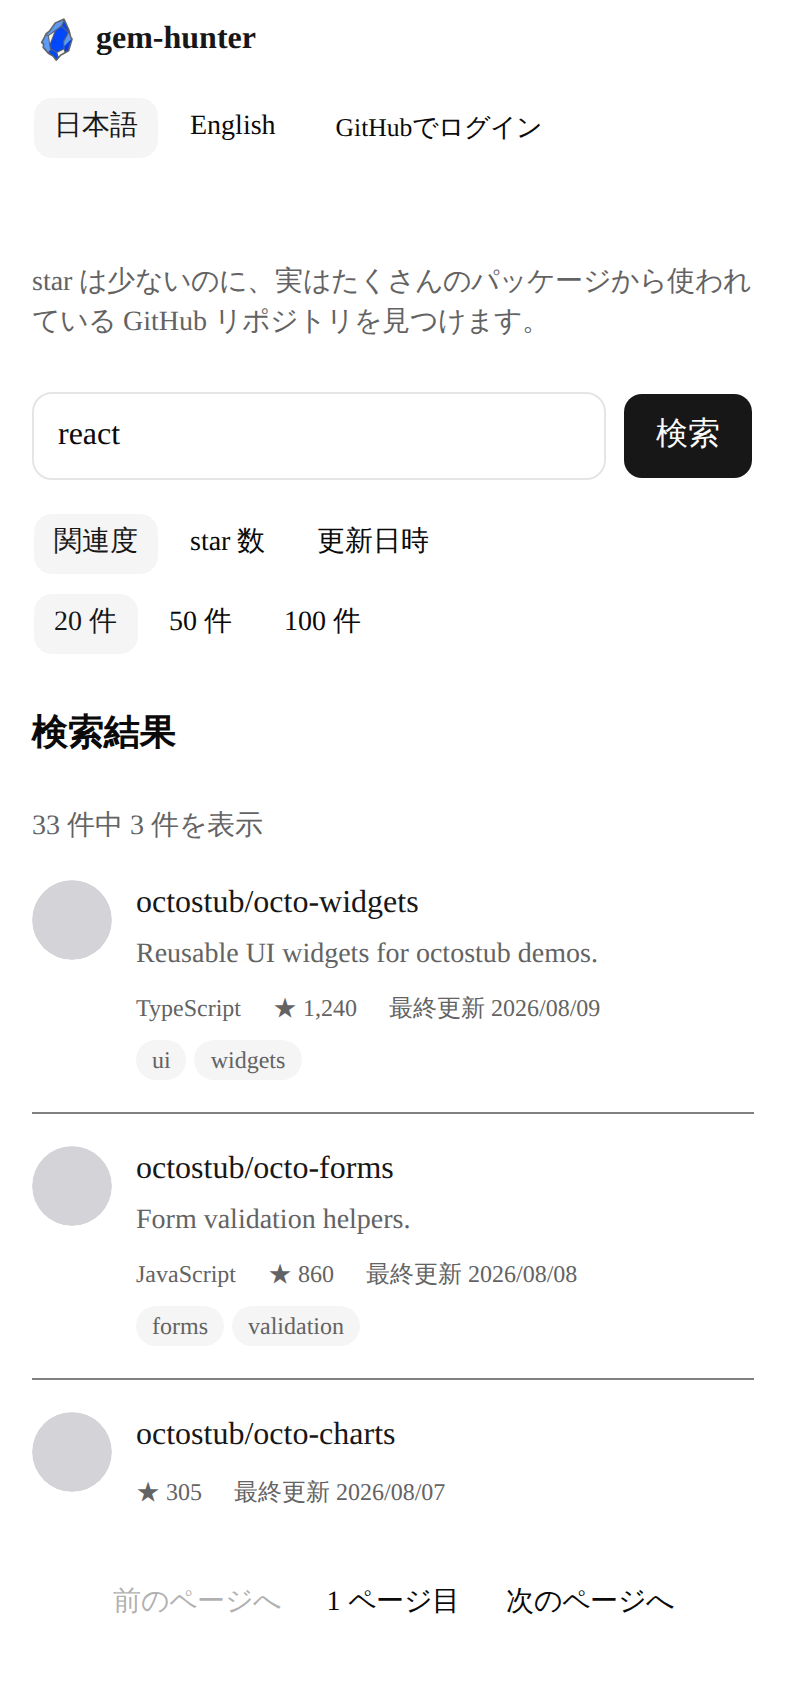
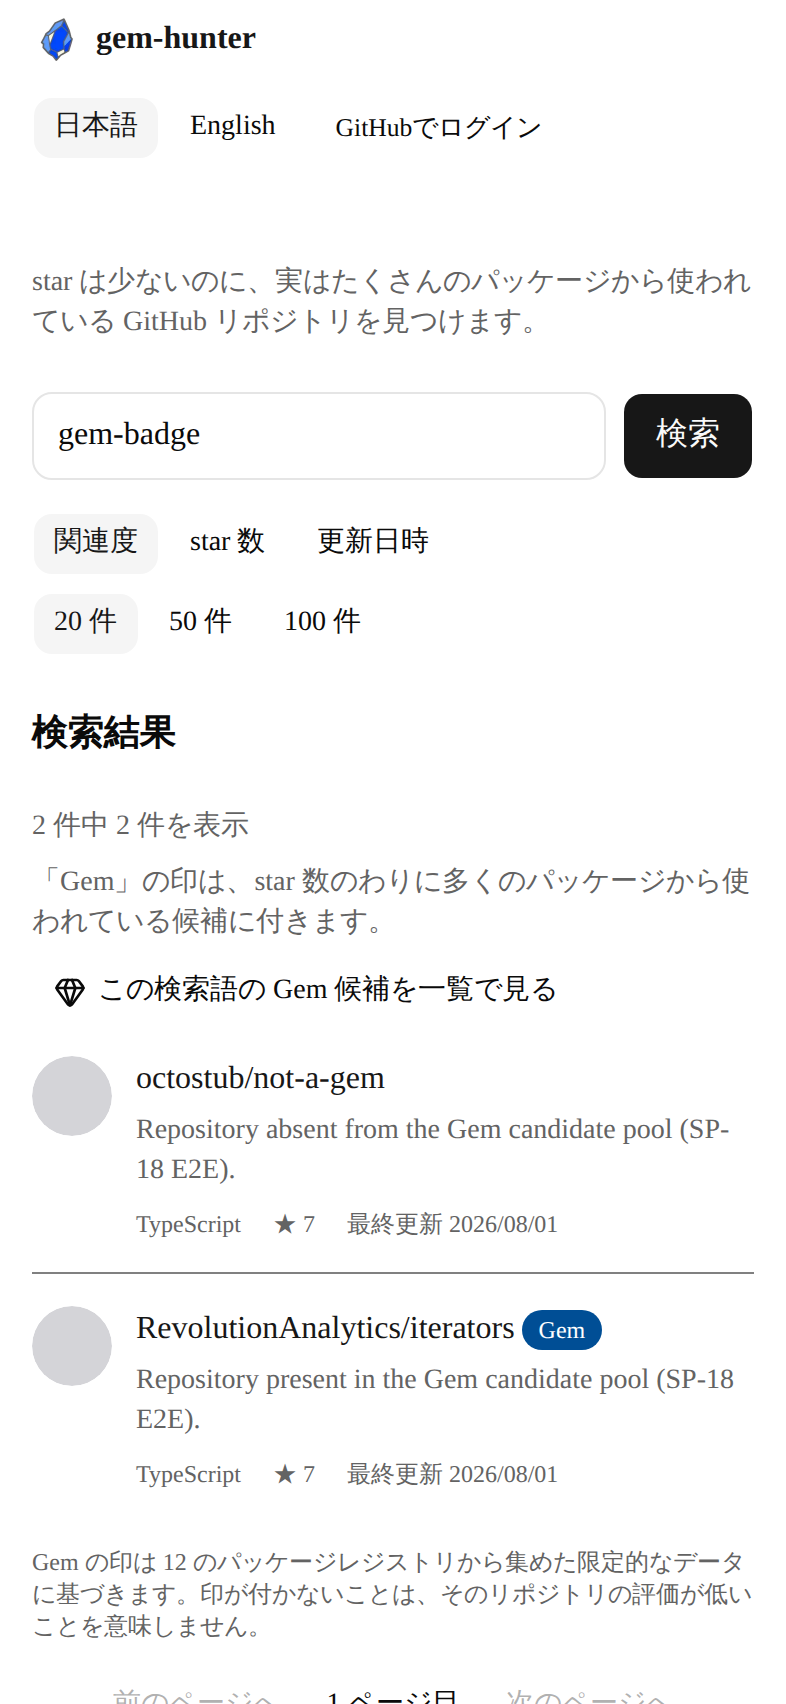
docs: 実 UI キャプチャを 3 枚に更新する（撮り直し 2 + Gem 一覧を新規・#517）
shot-01 は Gem バッジ・一覧導線・印の説明が写る画へ、shot-02 は 12 レジストリ化後の候補プールで撮り直した。shot-03（Gem 一覧）を新規に追加した。撮影に使った URL と、その URL でないと画が成立しない理由を slides_plan.json の note に残した。

回避: next start でも OpenNext の platform proxy が .open-next/assets を見るため /data/gem-index/*.json が 404 になり Gem バッジ・一覧が出ない（#454 系）。撮影設定側で symlink を張って回避し、撤去条件をコメントに明記した。

diff --git a/content/slides/project-explanation-20260822/scripts/capture.spec.ts b/content/slides/project-explanation-20260822/scripts/capture.spec.ts
@@ -92,10 +92,19 @@ test('shot-02: 今日の Gem ダイジェスト', async ({ page }, testInfo) => 
   // `?date=` は `getDailyDigest` の並び替えシード。固定日付で再現性を担保する（ADR 0014 §2.2）。
   await page.goto('/ja?date=20260820')
   await page.getByRole('heading', { name: '今日の Gem', level: 2 }).waitFor()
+  // 出典・鮮度（`{generatedAt}` を含む帰属表示）はダイジェストの末尾にあり、ファーストビューには
+  // 入らない。描画を待ってから撮る（下の PC 側はページ全体を写す）。
+  await page.getByText('このデータについて:').waitFor()
   await replaceStubAvatars(page)
-  // スマホ・PC とも **ファーストビューのまま** 撮る。共通ヘッダーとヒーロー画像
-  // （`/images/hero-idle.webp`）は最初の画面にしか出ないため、スクロールすると資料から消える。
-  // ヒーローが 16:9 になって縦幅が詰まった（#362）ので、スクロールしなくてもダイジェストが数件入る。
   await page.waitForTimeout(300)
-  await page.screenshot({ path: `${OUT}/shot-02-${testInfo.project.name}.png` })
+  // 🔴 端末で撮り方を変える（この 1 枚だけ）。
+  //  - スマホ（主役）: **ファーストビューのまま**。共通ヘッダーとヒーロー画像
+  //    （`/images/hero-idle.webp`）はここにしか出ないうえ、縦長のページ全体を撮ると
+  //    合成時（高さ基準で縮小）に細い短冊になって主役の文字が読めなくなる。
+  //  - PC（添え）: **ページ全体**。5 件すべてと出典・鮮度が 1 枚に収まるのはこちら側で、
+  //    横幅がある分ページが短く、縮小しても破綻しない。
+  await page.screenshot({
+    path: `${OUT}/shot-02-${testInfo.project.name}.png`,
+    fullPage: testInfo.project.name === 'desktop',
+  })
 })

diff --git a/content/slides/project-explanation-20260822/scripts/screenshots.config.ts b/content/slides/project-explanation-20260822/scripts/screenshots.config.ts
@@ -62,7 +62,15 @@ export default defineConfig({
           timeout: 30_000,
         },
         {
-          command: 'npm run build && npm start -- --port 3100',
+          // 🔴 `.open-next/assets` を先に用意する（**撮影のための細工ではなく、既知の不具合の回避**）。
+          // `next start` でも `@opennextjs/cloudflare` の platform proxy が `wrangler.jsonc` の
+          // `assets.directory`（`.open-next/assets`）を見る ASSETS binding を作るため、OpenNext ビルドを
+          // 挟まないと Gem 候補プール（`/data/gem-index/*`）が **HTTP 404** になり、Gem バッジも
+          // Gem 一覧も出ない（`main` の E2E が赤い原因と同一。Issue #454 / #455 / #457）。
+          // 配信元は `public/` そのものなので、そこへ向けたシンボリックリンクを張れば実データで撮れる。
+          // ⚠ **#454 / #455 / #457 が解決したらこの前段を外す**（既に実体があるときは何もしない）。
+          command:
+            '[ -e .open-next/assets ] || (mkdir -p .open-next && ln -s ../public .open-next/assets); npm run build && npm start -- --port 3100',
           cwd: repoRoot,
           env: { ...buildDummyGitHubEnv({ stubPort, appUrl: baseURL }), PORT: '3100' },
           url: baseURL,

diff --git a/content/slides/project-explanation-20260822/scripts/compose_screenshots.py b/content/slides/project-explanation-20260822/scripts/compose_screenshots.py
@@ -4,6 +4,9 @@
 飼い主の指示（2026-08-22）により **スマホ表示を主役、PC 表示を添え** として並べる。
 素材は `capture.spec.ts` が `images/raw/` に撮った端末別の PNG。
 
+`shot-03`（Gem 一覧）だけは素材が `fullPage` で、他の 2 枚（ファーストビュー）より縦に長い。
+高さを基準に縮めるレイアウトなので、長い素材はそのぶん横幅が細くなるだけで破綻はしない。
+
 レイアウトは「奥に PC の画面、手前に大きくスマホの画面」。スマホを前面かつ縦いっぱいに
 置くことで視線が先にスマホへ行き、PC は文脈（同じ画面が広い幅でも成立すること）を示す添えになる。
 背景・枠線の色は既存インフォグラフィックのパレット（生成りの紙地 + ネイビー）に合わせる。
@@ -83,6 +86,7 @@ def compose(shot_id: str, dest_name: str) -> Path:
 def main() -> int:
     OUT.mkdir(parents=True, exist_ok=True)
     compose("shot-01", "shot-01-search-results.png")
+    compose("shot-03", "shot-03-gem-list.png")
     compose("shot-02", "shot-02-daily-digest.png")
     return 0
 
